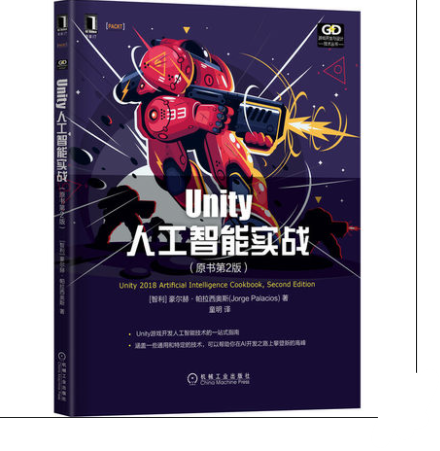
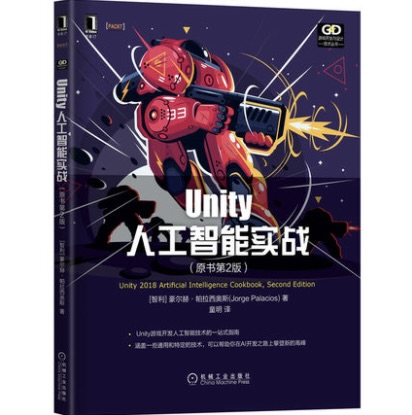
update readme

diff --git a/README.md b/README.md
@@ -64,3 +64,67 @@
 
 **整本书讲解的为Unity的底层原理，核心思想是优化游戏性能，主要的围绕提高游戏运行速度与降低内存消耗展开，优化的本质其实就是减少GC和降低drewcall，进而分别从C#技术要点、UI、模型等模块进行讲解**
 
+# Clean Code 
+
+![](./Pictures/CleanCode.png)
+
+
+
+# 游戏感
+
+![](./Pictures/GameFell.png)
+
+
+
+# Java 游戏服务器架构实战
+
+![](./Pictures/JavaGameServer.png)
+
+
+
+# Unity 人工智能实战
+
+![](./Pictures/UnityAI.png)
+
+
+
+# Unity引擎HDRP高清渲染管线实战
+
+![](./Pictures/UnityHDRP.png)
+
+
+
+# Unity网络游戏实战
+
+![](./Pictures/UnityNetwork.png)
+
+
+
+
+
+# Unity Shader入门精要
+
+![](./Pictures/UnityShader.png)
+
+
+
+# Unity VR虚拟现实完全自学教程
+
+![](./Pictures/UnityVR.png)
+
+
+
+
+
+
+
+
+
+
+
+
+
+ 
+
+
+
